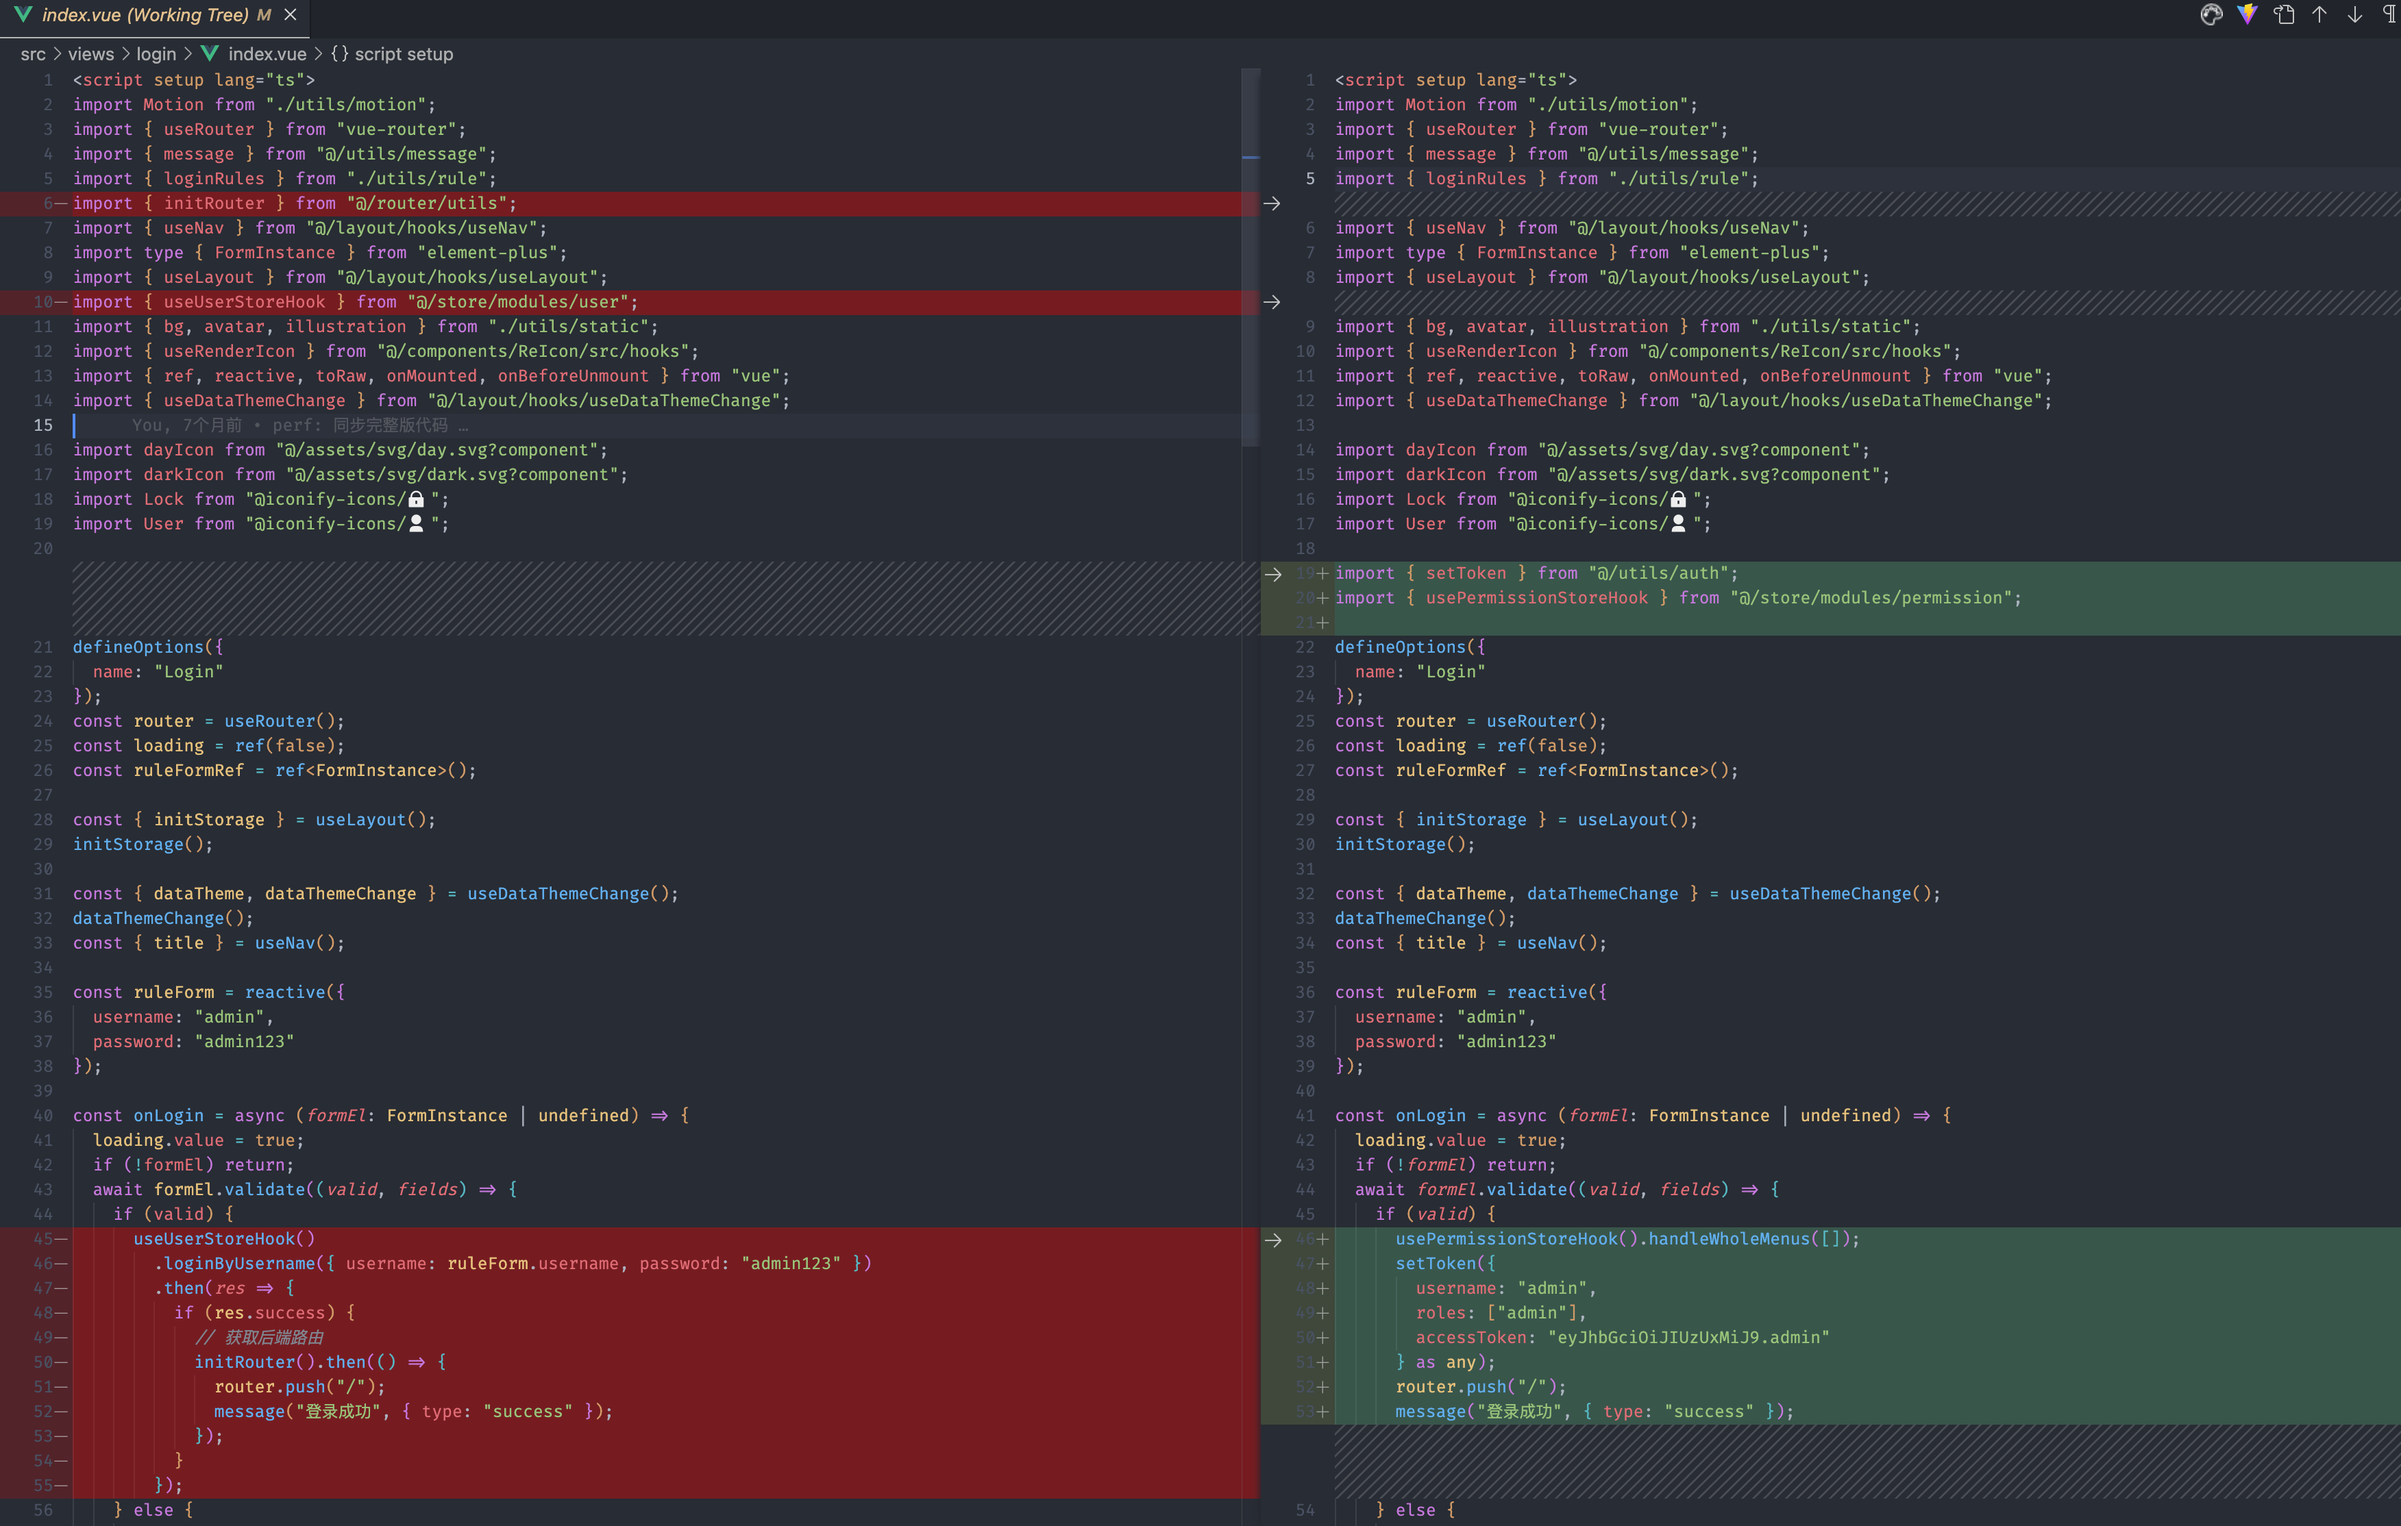
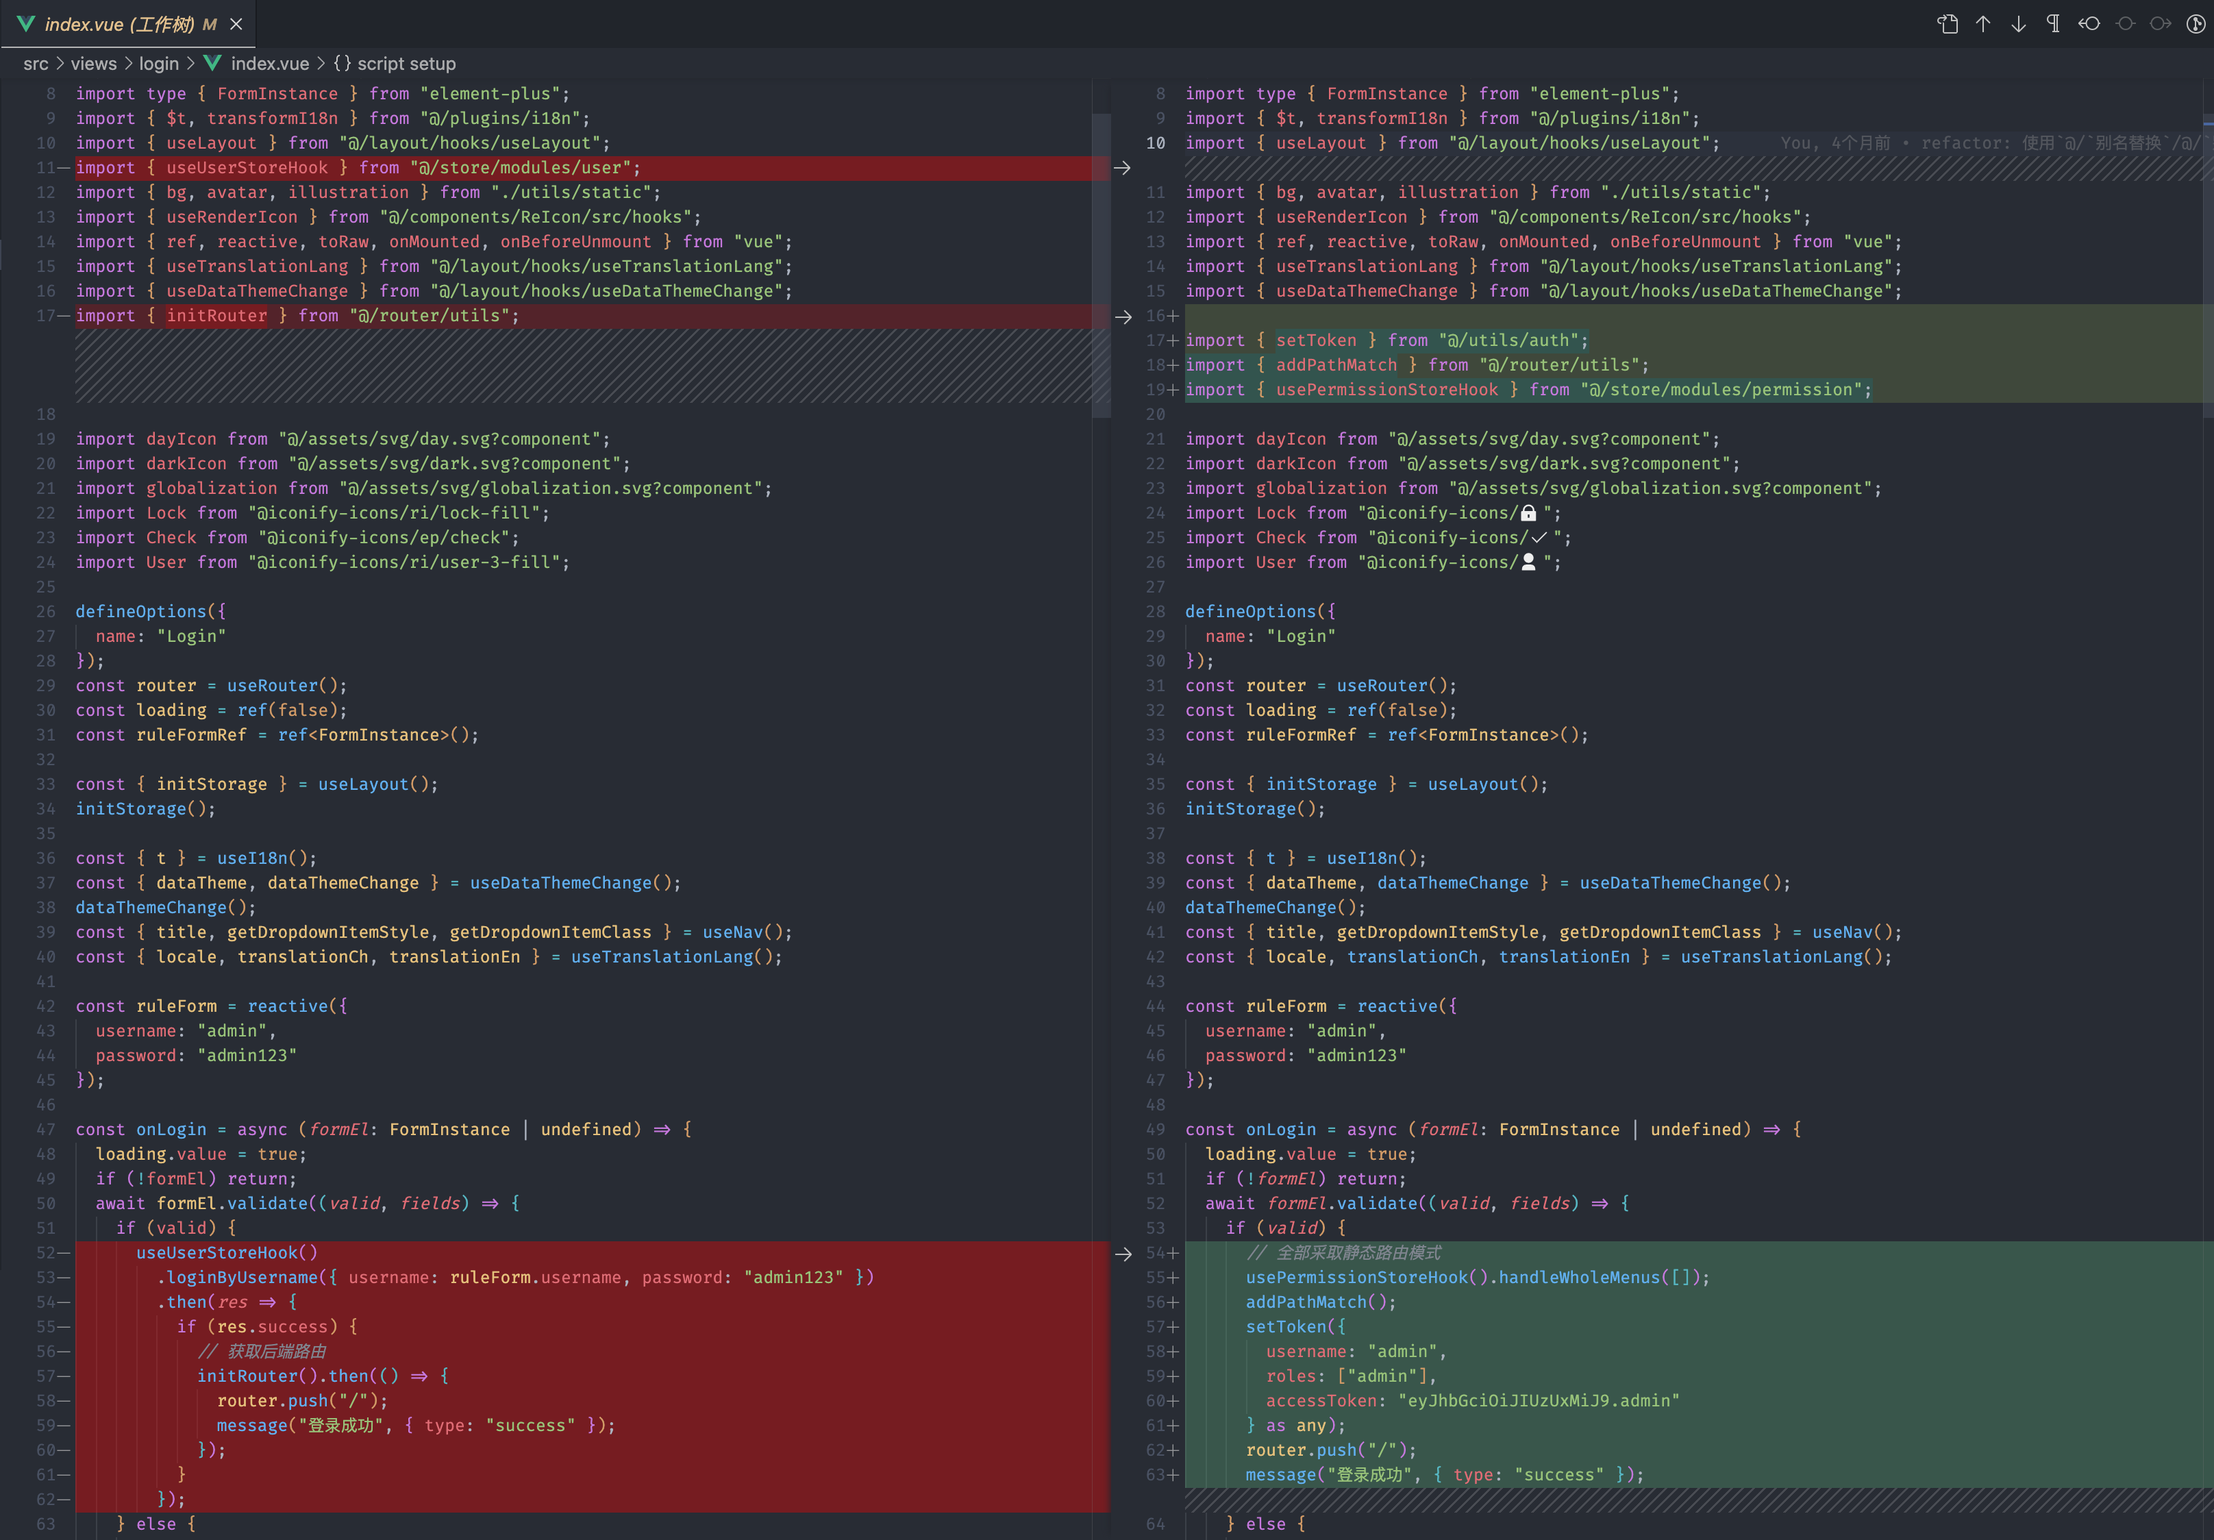
docs: update

diff --git a/theme-vdoing/components/Footer.vue b/theme-vdoing/components/Footer.vue
@@ -79,7 +79,7 @@ export default {
   data() {
     return {
       stars: '7k',
-      forks: '1.4k',
+      forks: '1.5k',
     }
   },
   computed: {

diff --git a/docs/01.指南/01.指南/08.http请求.md b/docs/01.指南/01.指南/08.http请求.md
@@ -116,12 +116,12 @@ import { http } from "@/utils/http";
 
 // params传参
 export const textRequest = (params?: object) => {
-  http.request("get", "/xxx", { params });
+  return http.request("get", "/xxx", { params });
 };
 
 // url拼接传参
 export const textRequest = (params?: object) => {
-  http.request("get", "/xxx?message=" + params);
+  return http.request("get", "/xxx?message=" + params);
 };
 ```
 
@@ -136,12 +136,12 @@ import { http } from "@/utils/http";
 
 // params传参
 export const textRequest = (params?: object) => {
-  http.request("post", "/xxx", { params });
+  return http.request("post", "/xxx", { params });
 };
 
 // data传参
 export const textRequest = (data?: object) => {
-  http.request("post", "/xxx", { data });
+  return http.request("post", "/xxx", { data });
 };
 ```
 
@@ -156,12 +156,12 @@ import { http } from "@/utils/http";
 
 // params传参
 export const textRequest = (params?: object) => {
-  http.request("delete", "/xxx", { params });
+  return http.request("delete", "/xxx", { params });
 };
 
 // data传参
 export const textRequest = (data?: object) => {
-  http.request("delete", "/xxx", { data });
+  return http.request("delete", "/xxx", { data });
 };
 ```
 
@@ -176,12 +176,12 @@ import { http } from "@/utils/http";
 
 // params传参
 export const textRequest = (params?: object) => {
-  http.request("put", "/xxx", { params });
+  return http.request("put", "/xxx", { params });
 };
 
 // data传参
 export const textRequest = (data?: object) => {
-  http.request("put", "/xxx", { data });
+  return http.request("put", "/xxx", { data });
 };
 ```
 

diff --git a/docs/01.指南/01.指南/07.路由和菜单.md b/docs/01.指南/01.指南/07.路由和菜单.md
@@ -485,6 +485,7 @@ export default {
 ```Vue
 <script setup lang="ts">
 import { setToken } from "@/utils/auth";
+import { addPathMatch } from "@/router/utils";
 import { usePermissionStoreHook } from "@/store/modules/permission";
 
 const onLogin = async (formEl: FormInstance | undefined) => {
@@ -494,6 +495,7 @@ const onLogin = async (formEl: FormInstance | undefined) => {
     if (valid) {
       // 全部采取静态路由模式
       usePermissionStoreHook().handleWholeMenus([]);
+      addPathMatch();
       setToken({
         username: "admin",
         roles: ["admin"],
@@ -515,11 +517,27 @@ const onLogin = async (formEl: FormInstance | undefined) => {
 2. 在 `src/router/index.ts` 文件作如下改动
 
 ```ts
+import { addPathMatch } from "./utils";
+
 // 使用下面方法替换initRouter
 usePermissionStoreHook().handleWholeMenus([]);
+addPathMatch();
+if (!useMultiTagsStoreHook().getMultiTagsCache) {
+  const { path } = to;
+  const route = findRouteByPath(path, router.options.routes[0].children);
+  // query、params模式路由传参数的标签页不在此处处理
+  if (route && route.meta?.title) {
+    useMultiTagsStoreHook().handleTags("push", {
+      path: route.path,
+      name: route.name,
+      meta: route.meta,
+    });
+  }
+}
 ```
 
 ![static15](~@alias/img/router/static15.jpg)
+![static16](~@alias/img/router/static16.jpg)
 
 ## 动态路由
 
